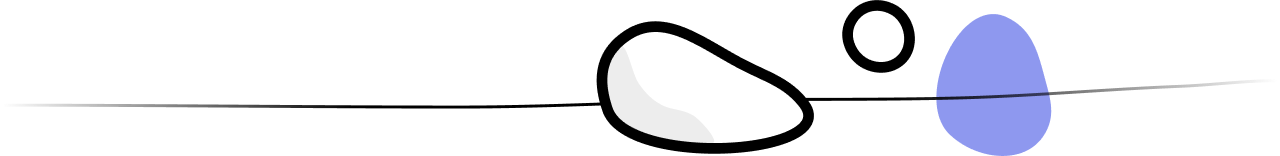
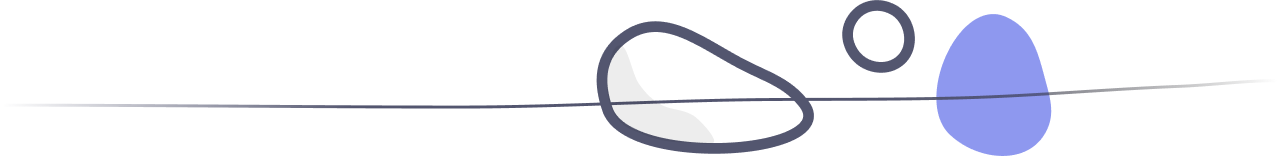
black -> grey

Changed region(s): [[0.0625, 0.1282, 0.8438, 1.0], [0.6562, 0.0, 0.7188, 0.4615], [0.8438, 0.5641, 0.875, 0.5897]]

diff --git a/css/main.css b/css/main.css
@@ -85,6 +85,10 @@ header img {
     margin: 16px 8px 0 8px;
 }
 
+header img {
+    filter: invert(32%) sepia(23%) saturate(504%) hue-rotate(195deg) brightness(93%) contrast(84%);
+}
+
 header img:hover {
     filter: invert(25%) sepia(88%) saturate(3997%) hue-rotate(235deg) brightness(99%) contrast(86%);
 }
@@ -106,7 +110,7 @@ nav li a {
 }
 
 nav li.active a {
-    border-bottom: 4px solid black;
+    border-bottom: 4px solid #53566F;
 }
 
 nav li a:hover {

diff --git a/css/dark-mode.css b/css/dark-mode.css
@@ -42,7 +42,7 @@
     mark { background-color: rgba(255, 255, 255, 16%); }
 
     header img {
-        filter: invert(100%) sepia(1%) saturate(262%) hue-rotate(214deg) brightness(118%) contrast(95%);
+        filter: invert(99%) sepia(6%) saturate(54%) hue-rotate(286deg) brightness(113%) contrast(95%);
     }
 
     header img:hover {
